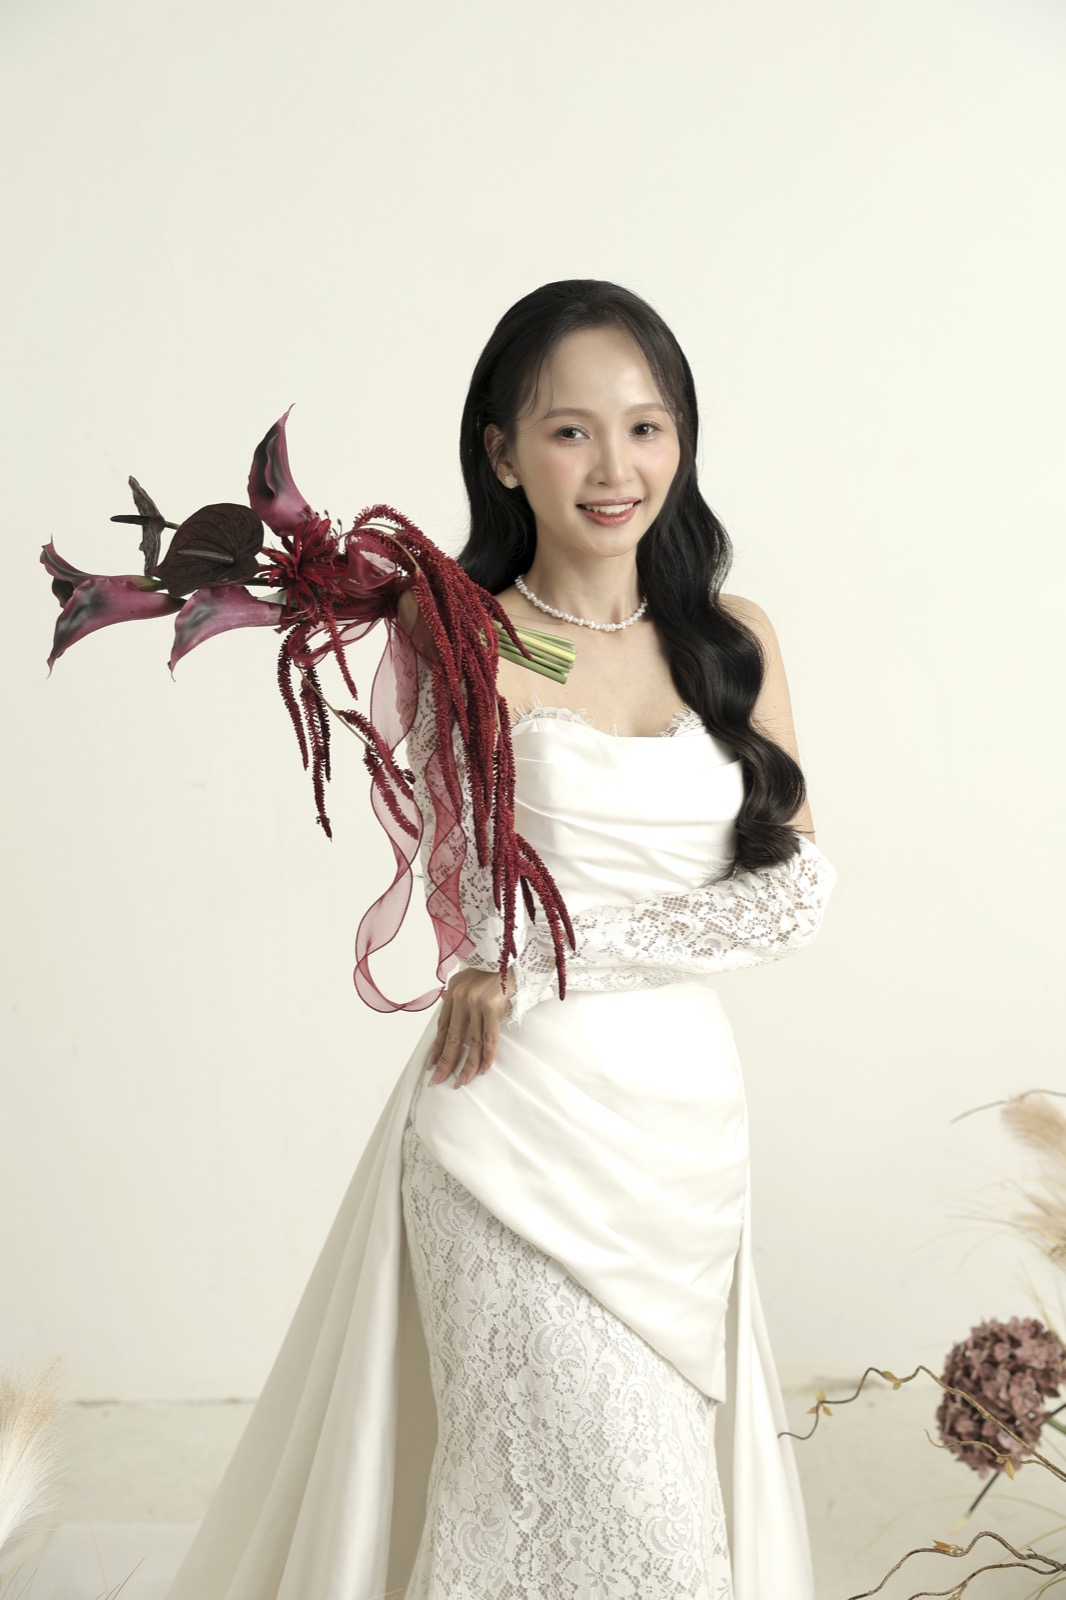
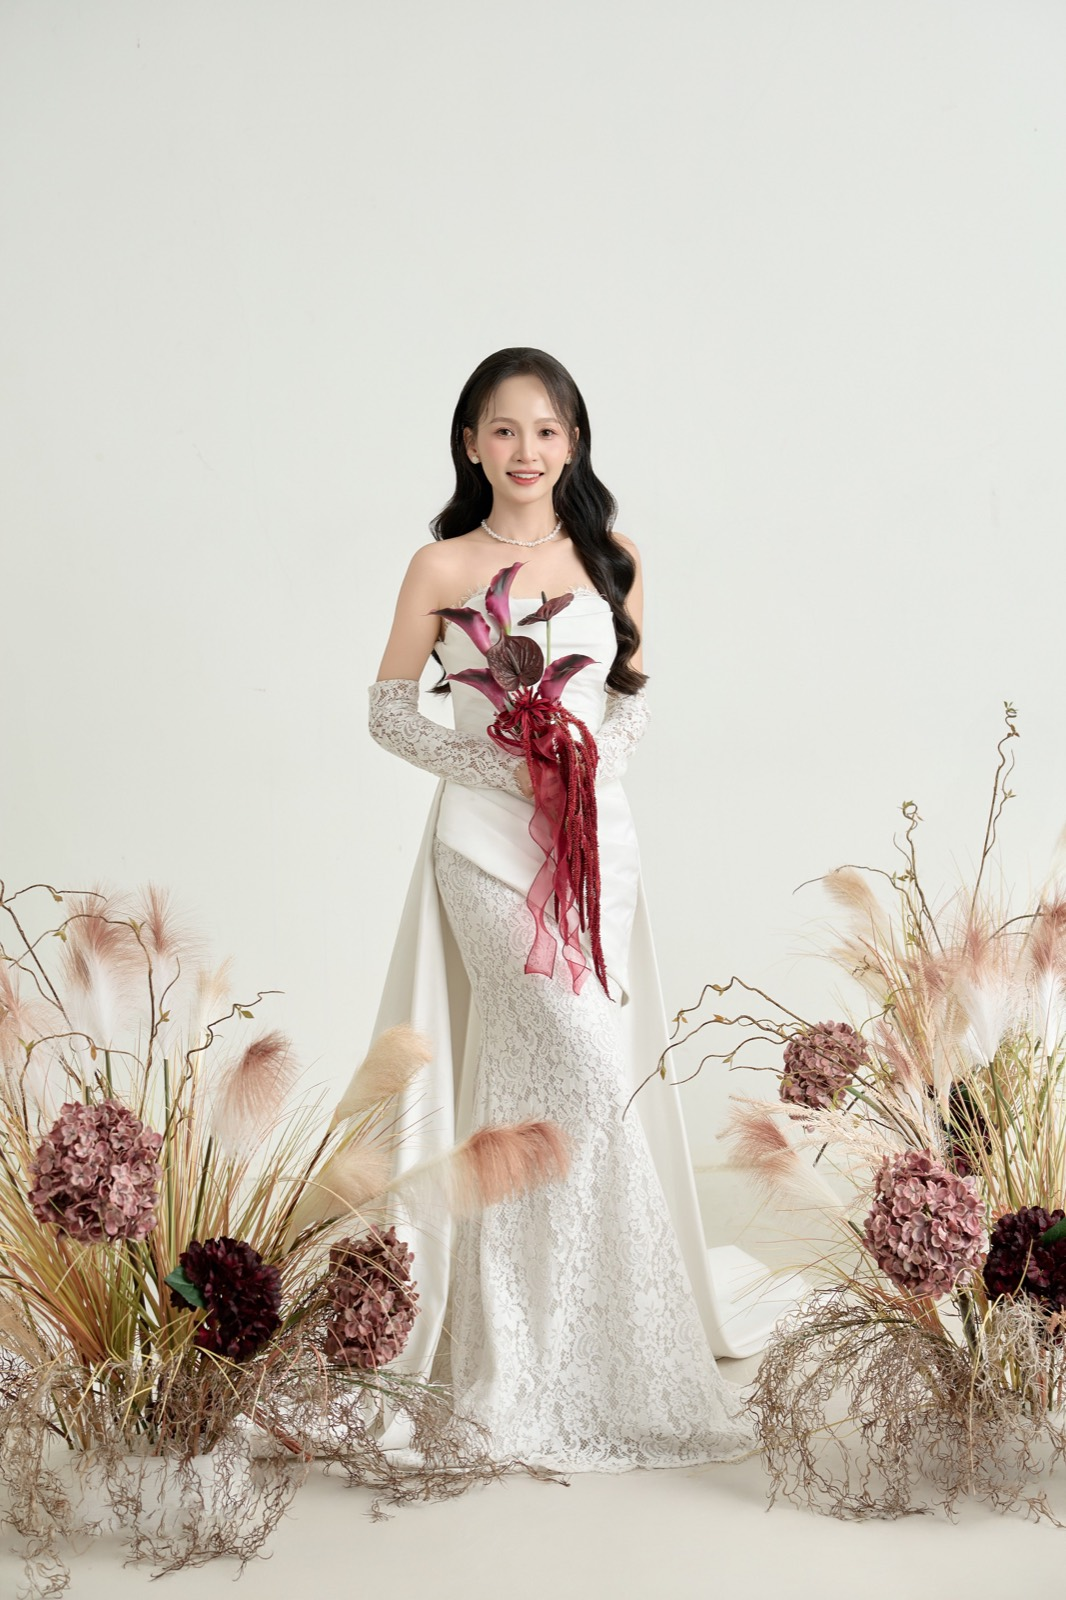
update shutle bus

diff --git a/styles.css b/styles.css
@@ -346,8 +346,13 @@ footer{padding:60px 24px 135px}footer h2{font-size:38px}footer .eyebrow{font-siz
 .wedding-info .wedding-info-label{margin-bottom:16px}
 
 /* Oval map buttons, one for each ceremony. */
-.event-card .map-link{display:inline-flex;align-items:center;justify-content:center;min-height:46px;max-width:100%;padding:10px 22px;border:1px solid #a58c78;border-radius:999px;background:transparent;color:var(--wine);font-size:13px;line-height:1.5;text-align:center;text-decoration:none;transition:background .2s,color .2s,border-color .2s}
-.event-card .map-link:hover{background:var(--wine);border-color:var(--wine);color:var(--cream)}
+.event-transport{container-type:inline-size;margin-top:20px;padding:18px 12px;background:#fff8ef;border:1px solid var(--line);border-radius:12px;font-size:14px;line-height:1.7;text-align:center;color:var(--ink)}
+.event-transport-pickup,.event-transport-detail{font-size:min(16px,3.7cqi);white-space:nowrap;margin-top:6px}
+.event-transport-pickup{white-space:normal}
+.event-transport-title{font-size:16px;font-weight:700;color:var(--wine);margin-bottom:6px}
+.event-card .map-link{display:inline-flex;align-items:center;justify-content:center;gap:8px;min-height:46px;max-width:100%;padding:10px 22px;border:1px solid #c32f3d;border-radius:999px;background:#c32f3d;color:#fff;font-size:13px;font-weight:600;line-height:1.5;text-align:center;text-decoration:none;transition:background .2s,color .2s,border-color .2s}
+.event-card .map-link svg{width:18px;height:18px;flex-shrink:0}
+.event-card .map-link:hover{background:#a32330;border-color:#a32330;color:#fff}
 .event-card{border-radius:28px}
 .event-card::before{border-radius:20px}
 
@@ -377,6 +382,9 @@ footer{padding:60px 24px 135px}footer h2{font-size:38px}footer .eyebrow{font-siz
 .couple-vow::before{content:'';display:block;width:32px;height:1px;background:var(--line);margin-bottom:12px}
 .couple-row--bride .couple-vow::before{margin-left:auto}
 .couple-row img{width:100%;height:auto;aspect-ratio:3/4;object-fit:cover;object-position:center top;border-radius:100px 100px 4px 4px;padding:5px;border:1px solid var(--line)}
+.bride-photo-frame{width:90%;justify-self:end;aspect-ratio:3/4;overflow:hidden;border-radius:100px 100px 4px 4px;border:1px solid var(--line);padding:5px}
+.bride-photo-crop{width:100%;height:100%;overflow:hidden;border-radius:100px 100px 0 0}
+.couple-row .bride-photo-frame img{height:100%;border:0;padding:0;border-radius:100px 100px 0 0;transform:scale(1.9);transform-origin:50% 38%}
 .wedding-couple .couple-row h3{font-size:clamp(20px,5.5vw,27px);line-height:1.45;white-space:normal;letter-spacing:-.025em;min-width:0;text-wrap:balance}
 @media(max-width:360px){.couple-row{gap:12px}.wedding-couple .couple-row h3{font-size:20px}}
 

diff --git a/content.js b/content.js
@@ -19,8 +19,8 @@ window.WEDDING = {
   invitationClosing: 'Sau những mùa thu dần qua,\nchúng mình tìm thấy bến bờ bình yên trong nhau.\n\nXin gửi lời mời chân thành nhất\nđến các bạn trong ngày vui của chúng mình.',
   thanks: 'Sự hiện diện của bạn là món quà quý giá nhất trong ngày hạnh phúc của chúng mình.',
   events: [
-    { side: 'Nhà gái', title: 'Tiệc vu quy', datetime: '2026-12-19T11:00:00+07:00', venue: 'Nhà hàng Leyna Palace – Sảnh 3', address: '196 ĐT 766, Thôn Đức Hạnh, Xã Hoài Đức, Tỉnh Lâm Đồng', mapsUrl: 'https://maps.app.goo.gl/39xXMY6QAoUMy9Rq5' },
-    { side: 'Nhà trai', title: 'Tiệc tân hôn', datetime: '2026-12-20T11:00:00+07:00', ceremonyDatetime: '2026-12-20T09:00:00+07:00', venue: 'Tư gia nhà trai', address: '139 Điện Biên Phủ, Hoài Đức, Lâm Đồng', mapsUrl: 'https://maps.app.goo.gl/gscFx4pofCw3k8Yu5' }
+    { side: 'Nhà gái', title: 'Tiệc vu quy', datetime: '2026-12-19T11:00:00+07:00', venue: 'Nhà hàng Leyna Palace – Sảnh 3', address: '196 ĐT 766, Thôn Đức Hạnh, Xã Hoài Đức, Tỉnh Lâm Đồng', mapsUrl: 'https://maps.app.goo.gl/39xXMY6QAoUMy9Rq5', transport: { pickup: 'Xe đón lúc 8h30 tại BV Đa khoa Khu Vực Thủ Đức.', return: 'Dự kiến về lại Sài Gòn lúc 14h', duration: '(Thời gian di chuyển khoảng 2h/lượt)' } },
+    { side: 'Nhà trai', title: 'Tiệc tân hôn', datetime: '2026-12-20T11:00:00+07:00', ceremonyDatetime: '2026-12-20T09:00:00+07:00', venue: 'Tư gia nhà trai', address: '139 Điện Biên Phủ, Hoài Đức, Lâm Đồng', mapsUrl: 'https://maps.app.goo.gl/gscFx4pofCw3k8Yu5', transport: { pickup: 'Xe đón lúc 8h30 tại Sài Gòn.', return: 'Dự kiến về lại Sài Gòn lúc 14h', duration: '(Thời gian di chuyển khoảng 2h/lượt)' } }
   ],
   // Ảnh xen kẽ độc lập với album cuối trang; thay src và position theo ảnh thật.
   interludes: [

diff --git a/app.js b/app.js
@@ -82,7 +82,19 @@
     card.append(reception);
     const time = element('time', 'event-date', date.full.replaceAll('/', ' . ')); time.dateTime = event.datetime;
     card.append(time, element('p', 'event-day', date.day), element('hr'), element('p', 'event-venue', event.venue), element('p', 'event-address', event.address));
-    const map = element('a', 'map-link', `Chỉ đường - ${event.side === 'Nhà trai' ? 'Lễ thành hôn' : 'Lễ vu quy'}`); map.href = event.mapsUrl; map.target = '_blank'; map.rel = 'noopener noreferrer'; map.setAttribute('aria-label', `Chỉ đường đến ${event.title} (${event.side}), mở tab mới`); card.append(map);
+    const map = element('a', 'map-link', `Chỉ đường - ${event.side === 'Nhà trai' ? 'Lễ thành hôn' : 'Lễ vu quy'}`);
+    const mapIcon = document.createElementNS('http://www.w3.org/2000/svg', 'svg');
+    mapIcon.setAttribute('viewBox', '0 0 24 24');
+    mapIcon.setAttribute('aria-hidden', 'true');
+    mapIcon.innerHTML = '<path d="m21 3-6.5 18-4-7.5L3 9.5 21 3Z" fill="none" stroke="currentColor" stroke-width="1.8" stroke-linecap="round" stroke-linejoin="round"/>';
+    map.prepend(mapIcon);
+    map.href = event.mapsUrl; map.target = '_blank'; map.rel = 'noopener noreferrer'; map.setAttribute('aria-label', `Chỉ đường đến ${event.title} (${event.side}), mở tab mới`); card.append(map);
+    if (event.transport) {
+      const transport = element('aside', 'event-transport');
+      transport.append(element('p', 'event-transport-title', 'Thông tin xe đưa rước'), element('p', 'event-transport-pickup', event.transport.pickup), element('p', 'event-transport-detail', event.transport.return));
+      if (event.transport.duration) transport.append(element('p', 'event-transport-detail', event.transport.duration));
+      card.append(transport);
+    }
     $('event-list').append(card);
   });
   const months = new Map();

diff --git a/index.html b/index.html
@@ -64,7 +64,7 @@
       <div class="wedding-announcement"><p>Trân trọng báo tin</p><p>Lễ thành hôn của con chúng tôi</p></div>
       <div class="wedding-couple">
         <div class="couple-row couple-row--groom"><img src="assets/photos/groom.jpg" alt="Chú rể Minh Hoài" loading="lazy" decoding="async"><div class="couple-details"><p class="couple-role">Chú rể</p><h3 id="groom-fullname"></h3><p class="couple-vow">Cùng em viết tiếp những ngày thương.</p></div></div>
-        <div class="couple-row couple-row--bride"><div class="couple-details"><p class="couple-role">Cô dâu</p><h3 id="bride-fullname"></h3><p class="couple-vow">Cùng anh đi hết những mùa yêu.</p></div><img src="assets/photos/bride.jpg" alt="Cô dâu Phương Dung" loading="lazy" decoding="async"></div>
+        <div class="couple-row couple-row--bride"><div class="couple-details"><p class="couple-role">Cô dâu</p><h3 id="bride-fullname"></h3><p class="couple-vow">Cùng anh đi hết những mùa yêu.</p></div><div class="bride-photo-frame"><div class="bride-photo-crop"><img src="assets/photos/bride.jpg" alt="Cô dâu Phương Dung" loading="lazy" decoding="async"></div></div></div>
       </div>
     </section>
     <section class="section events-section" id="events" aria-labelledby="events-heading"><div class="section-title"><div><h2 id="events-heading">Ngày vui của chúng mình</h2></div></div><div class="event-grid" id="event-list"></div></section>
